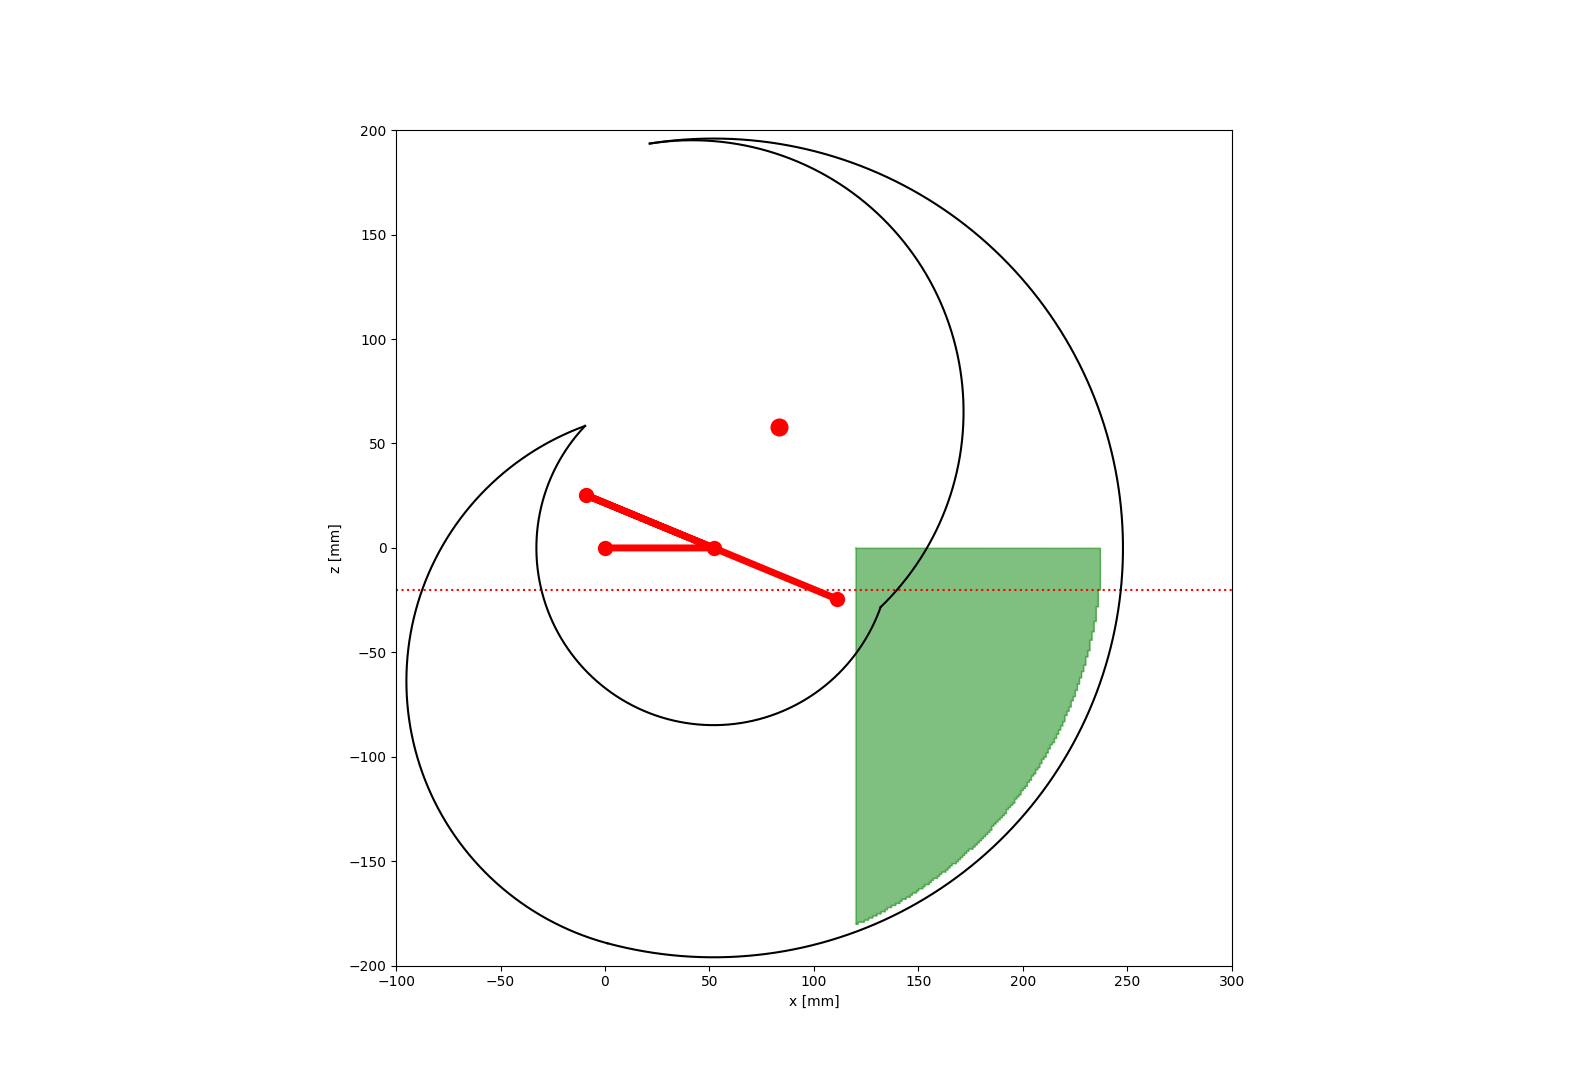
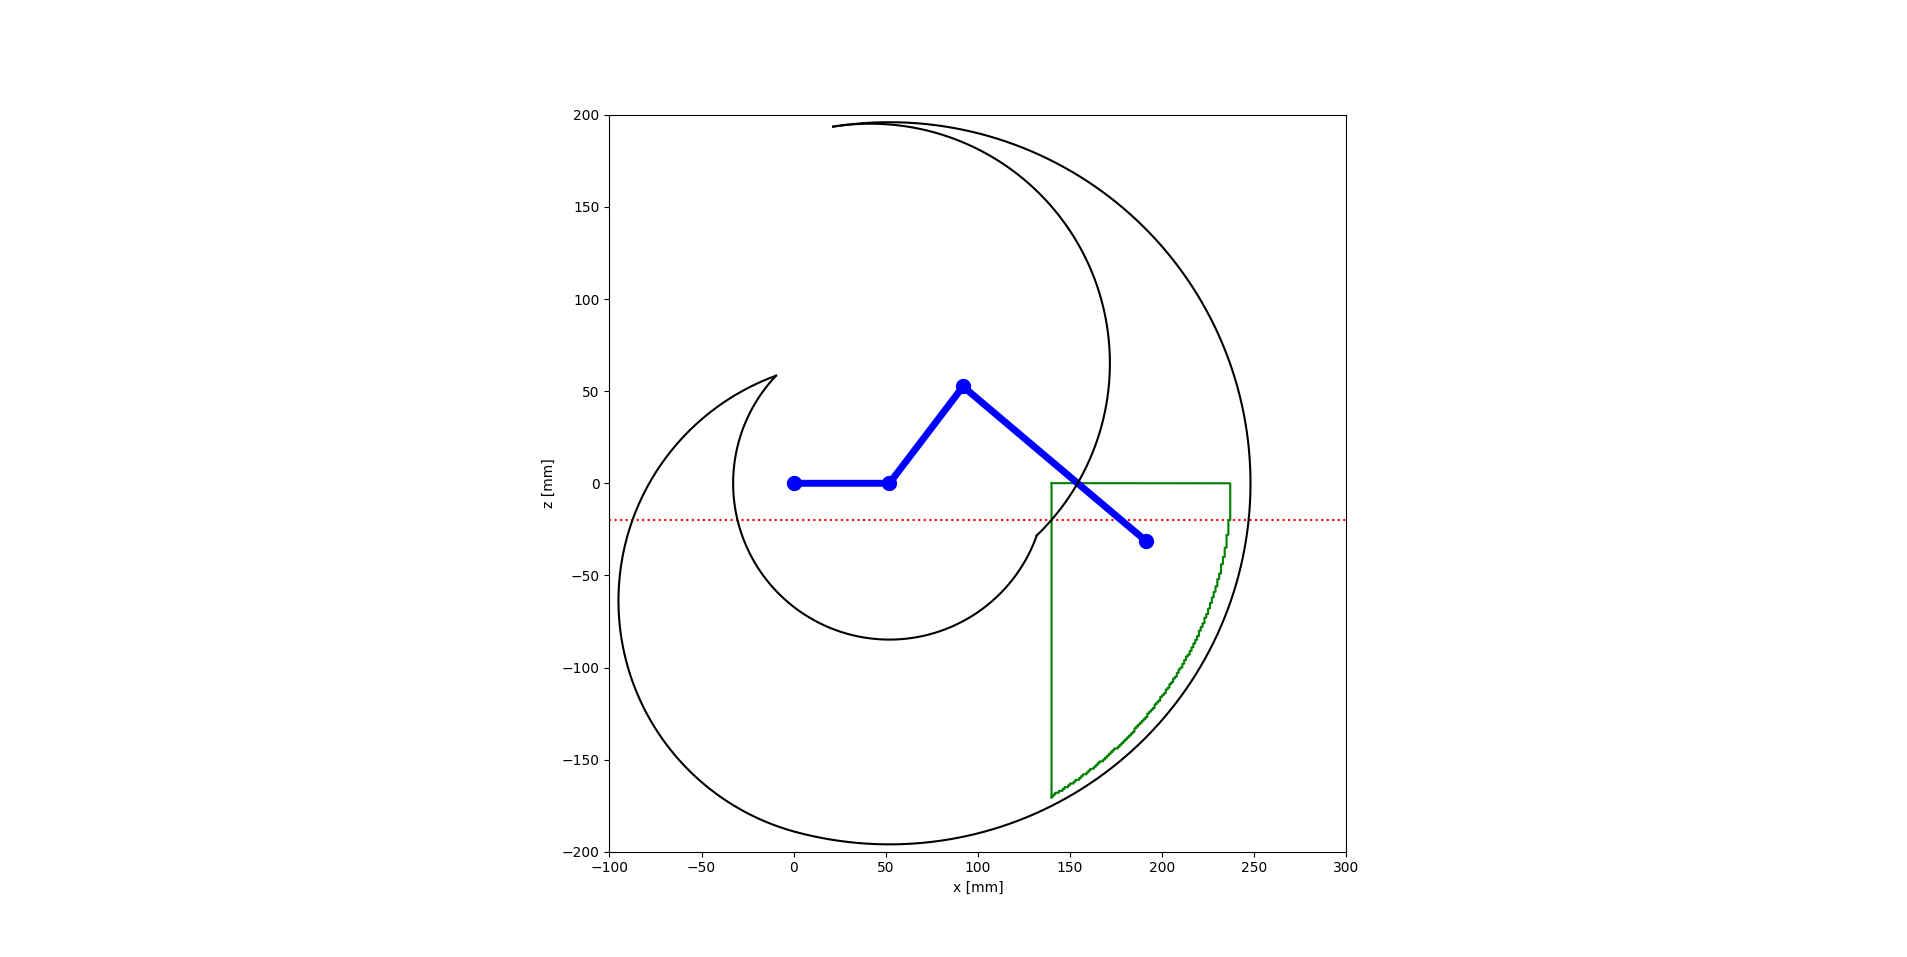
コメントに追記

diff --git a/hexapod_graph_ideal.py b/hexapod_graph_ideal.py
@@ -1,0 +1,64 @@
+#-*- coding: utf-8 -*-
+
+# モジュールのインポート
+import matplotlib as mpl
+mpl.use('tkagg')
+import matplotlib.pyplot as plt
+import numpy as np
+import designlab as dl
+
+
+# 定数を定義
+X_MIN = -100.0
+X_MAX = 300.0
+Z_MIN = -200.0
+Z_MAX = 200.0
+
+
+if __name__ == "__main__":
+
+    fig = plt.figure()
+    ax_table = fig.add_subplot(3,3,2)   # 今回は使用しないので適当な座標に配置
+    ax = fig.add_subplot(1,1,1)
+
+    ax.plot([X_MIN,X_MAX],[-20,-20], color = "red",linestyle = "dotted")               # グラフを描画する
+
+    # 0,0を通る線を描画する
+    #ax.plot([0,0],[Z_MIN,Z_MAX], color = "black", lw = 0.5)       # グラフを描画する    
+    #ax.plot([X_MIN,X_MAX],[0,0], color = "black", lw = 0.5)       # グラフを描画する
+
+    # 以下グラフの作成，描画
+
+    # 脚が出せる力のグラフを描画
+    hexapod_leg_power = dl.HexapodLegPower()
+    #hexapod_leg_power.render(fig, ax,X_MIN,X_MAX,Z_MIN,Z_MAX)
+
+    # 脚の可動範囲の近似値を描画
+    app_graph = dl.ApproximatedGraphRenderer()
+    app_graph.set_min_leg_radius(140)
+    app_graph.set_draw_fill(False)
+    #app_graph.set_alpha(0.5)
+    app_graph.render(ax,-170.5, 0.1)
+
+    # 脚を描画
+    leg_renderer = dl.HexapodLegRenderer()
+    leg_renderer.set_event(fig, ax, ax_table)
+    leg_renderer.set_circle(False)
+    leg_renderer.set_wedge(False)
+    leg_renderer.set_img_file_name("result/img_simu.png")   # 左クリックで保存するファイル名を指定
+
+    # 脚の可動範囲を描画する
+    hexapod_range_of_motion = dl.HexapodRangeOfMotion()
+    hexapod_range_of_motion.render_lower_leg_range(ax,'black',1)
+
+    ax.set_xlim(X_MIN, X_MAX)   # x 軸の範囲を設定
+    ax.set_ylim(Z_MIN, Z_MAX)   # z 軸の範囲を設定
+
+    ax.set_xlabel('x [mm]')        # x軸のラベルを設定
+    ax.set_ylabel('z [mm]')        # y軸のラベルを設定
+
+    ax.set_aspect('equal')  # x,y軸のスケールを揃える
+
+    ax_table.set_visible(False) # 表示しない
+
+    plt.show()  # 表示する

diff --git a/hexapod_main.py b/hexapod_main.py
@@ -8,8 +8,10 @@
 
 # pythonのバージョンは3.6.9，Window10で開発を行っていますが，WSL2をいれて，Ubuntu18.04の仮想環境を作って，そこで開発を行っています．
 # 依存しているライブラリは，matplotlib，numpy，tdqmです．
-# 実行できない場合は，これらのライブラリをインストールしてください．インストール方法は「python ライブラリ名 install方法」でググってください．
+# 実行できない場合は，これらのライブラリをインストールしてください．インストール方法は「python (ライブラリ名) install方法」でググってください．
 # （おそらく terminalで $ pip3 install matplotlib numpy tdqm と打てばインストールできるかと思いますが）
+# ModuleNotFoundError: No module named 'tkinter' とエラーが出た場合は，tkinterをインストールしてください．
+# ( このコマンドで可能です $ sudo apt-get install python3-tk )
 
 # モジュールのインポート
 import matplotlib as mpl
@@ -37,7 +39,7 @@ if __name__ == "__main__":
     # 脚が出せる力のグラフを描画
     hexapod_leg_power = dl.HexapodLegPower()
     hexapod_leg_power.set_step(2.0) 
-    hexapod_leg_power.render(fig, ax,X_MIN,X_MAX,Z_MIN,Z_MAX)
+    #hexapod_leg_power.render(fig, ax,X_MIN,X_MAX,Z_MIN,Z_MAX)
 
     # 脚の可動範囲の近似値を描画
     app_graph = dl.ApproximatedGraphRenderer()
